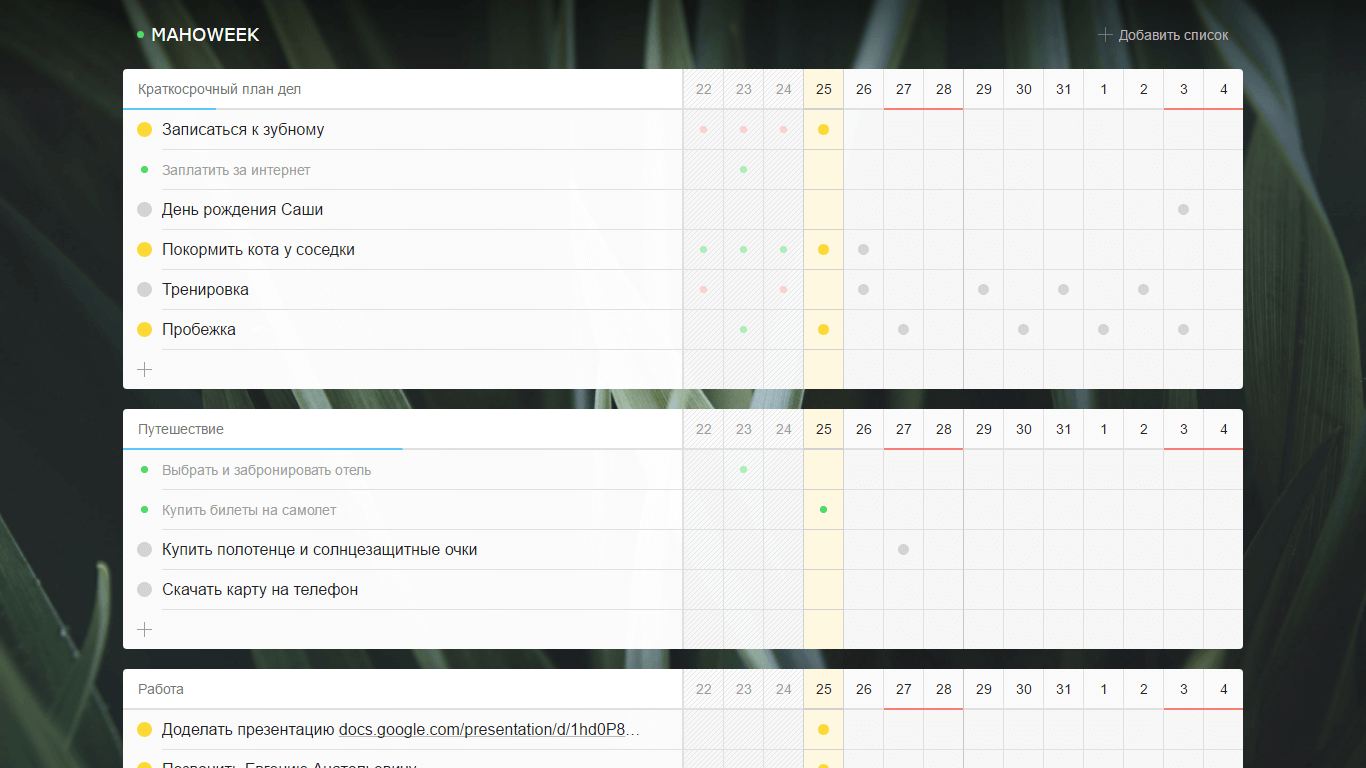
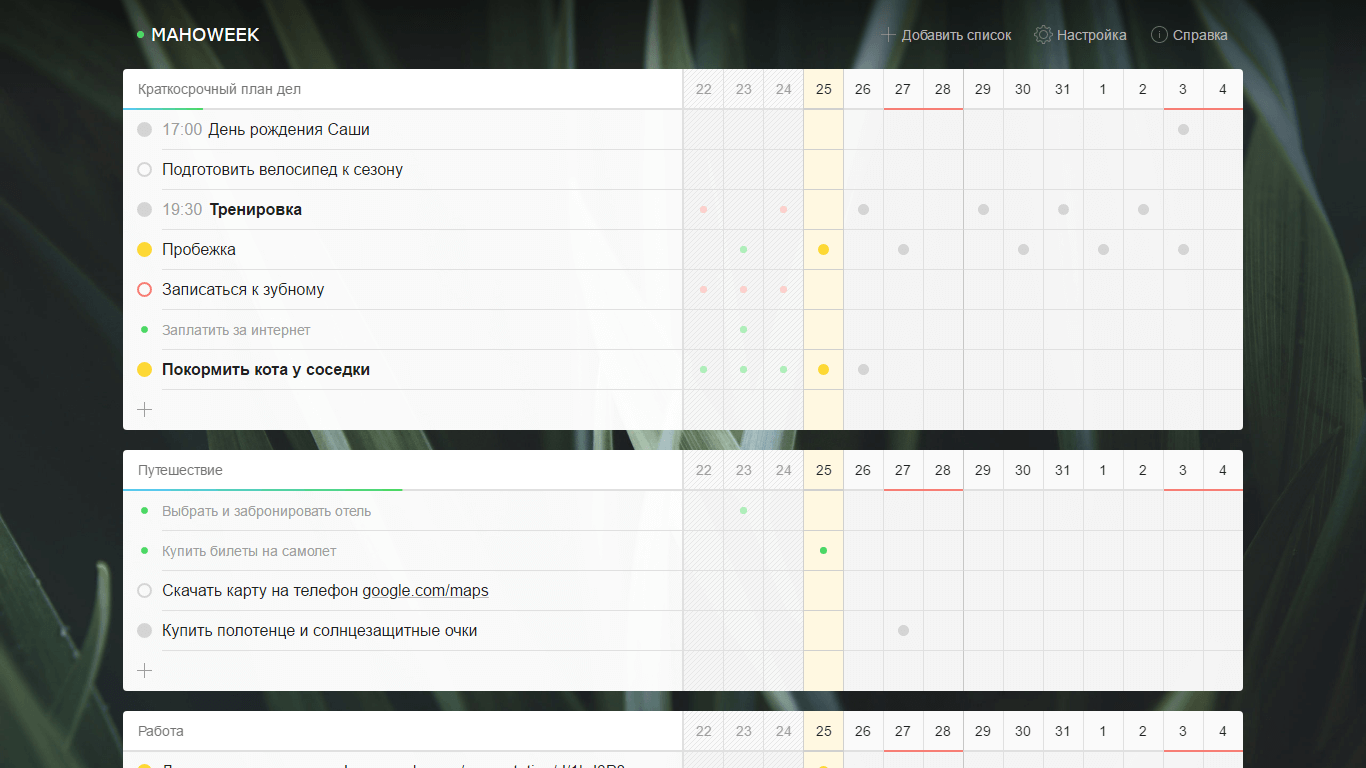
feature: добавлены новые статусы у дел: метка не задана и просрочено

diff --git a/src/index.html b/src/index.html
@@ -21,7 +21,7 @@
 		<meta property="og:url" content="https://mahoweek.ru">
 		<meta property="og:title" content="Mahoweek: краткосрочный план дел">
 		<meta property="og:description" content="Веб-сервис поможет организовать список задач и наметить на календарной сетке даты их выполнения на одну-две недели вперёд.">
-		<meta property="og:image" content="https://mahoweek.ru/img/interface.png?v=2">
+		<meta property="og:image" content="https://mahoweek.ru/img/interface.png?v=3">
 	</head>
 
 	<body>
@@ -108,7 +108,7 @@
 
 				<p class="text-center  center-block" style="max-width: 470px;">Веб-сервис по ведению краткосрочного плана дел. Поможет организовать список задач и наметить на календарной сетке даты их выполнения на одну-две недели вперёд.</p>
 
-				<div class="browser" style="background-image: url(/img/interface.png?v=2);">
+				<div class="browser" style="background-image: url(/img/interface.png?v=3);">
 					<div class="browser__header"></div>
 				</div>
 
@@ -149,7 +149,7 @@
 
 				<div class="share">
 					<script src="//yastatic.net/share2/share.js" async></script>
-					<div class="ya-share2" data-services="vkontakte,facebook,odnoklassniki,moimir,gplus,twitter,lj,viber,whatsapp,skype,telegram" data-counter="" data-title="Mahoweek: краткосрочный план дел" data-image="https://mahoweek.ru/img/interface.png?v=2" data-url="https://mahoweek.ru" data-description="Веб-сервис поможет организовать список задач и наметить на календарной сетке даты их выполнения на одну-две недели вперёд." data-title:twitter="Mahoweek поможет организовать список дел и наметить на календарной сетке даты их выполнения:"></div>
+					<div class="ya-share2" data-services="vkontakte,facebook,odnoklassniki,moimir,gplus,twitter,lj,viber,whatsapp,skype,telegram" data-counter="" data-title="Mahoweek: краткосрочный план дел" data-image="https://mahoweek.ru/img/interface.png?v=3" data-url="https://mahoweek.ru" data-description="Веб-сервис поможет организовать список задач и наметить на календарной сетке даты их выполнения на одну-две недели вперёд." data-title:twitter="Mahoweek поможет организовать список дел и наметить на календарной сетке даты их выполнения:"></div>
 				</div>
 			</div>
 		</div>

diff --git a/src/blocks/grid/grid.js b/src/blocks/grid/grid.js
@@ -65,12 +65,32 @@
 			}
 		}
 
-		// В итоге, если у дела есть метка на сегодняшний день и она не выполнена
+		// В итоге, если дела есть невыполненные метки за прошедшие дни
+		// и если дело не было выполненным сегодня,
+		// а так же если последняя метка точно о пропуске
+		if (isThis.parents('.task').find('.grid__date.grid__date--past.grid__date--bull:not(.grid__date--completed)').length && !isThis.parents('.task').find('.grid__date.grid__date--today.grid__date--completed').length && isThis.parents('.task').find('.grid__date.grid__date--past.grid__date--bull:not(.grid__date--completed):last').index() > isThis.parents('.task').find('.grid__date.grid__date--past.grid__date--completed:last').index()) {
+			// Помечаем дело как невыполненное
+			isThis.parents('.task').addClass('task--past');
+		} else {
+			// Размечаем дело как невыполненное
+			isThis.parents('.task').removeClass('task--past');
+		}
+
+		// В итоге, если у дела есть метка на любой будущий день
+		if (isThis.parents('.task').find('.grid__date:not(.grid__date--past):not(.grid__date--completed).grid__date--bull').length) {
+			// Помечаем дело как намеченное
+			isThis.parents('.task').addClass('task--bull');
+		} else {
+			// Размечаем дело как намеченное
+			isThis.parents('.task').removeClass('task--bull');
+		}
+
+		// А так же, если у дела есть метка на сегодняшний день и она не выполнена
 		if (isThis.parents('.task').find('.grid__date--today.grid__date--bull:not(.grid__date--completed)').length) {
 			// Помечаем дело как сегодняшнее
 			isThis.parents('.task').addClass('task--today');
 		} else {
-			// Помечаем сегодняшнее дело выполненным
+			// Размечаем дело как сегодняшнее
 			isThis.parents('.task').removeClass('task--today');
 		}
 

diff --git a/src/blocks/task/task.js b/src/blocks/task/task.js
@@ -17,6 +17,20 @@
 		// Находим это дело
 		var task = LIST_BOARD.find('.task[data-id="' + mahoweekStorage.tasks[i].id + '"]');
 
+		// Если у этого дела есть невыполненные метки за прошедшие дни
+		// и если дело не было выполненным сегодня,
+		// а так же если последняя метка точно метка о пропуске
+		if (task.find('.grid__date.grid__date--past.grid__date--bull:not(.grid__date--completed)').length && !task.find('.grid__date.grid__date--today.grid__date--completed').length && task.find('.grid__date.grid__date--past.grid__date--bull:not(.grid__date--completed):last').index() > task.find('.grid__date.grid__date--past.grid__date--completed:last').index()) {
+			// Помечаем дело как невыполненное
+			task.addClass('task--past');
+		}
+
+		// Если у этого дела есть метка на любой будущий день
+		if (task.find('.grid__date:not(.grid__date--past):not(.grid__date--completed).grid__date--bull').length) {
+			// Помечаем дело как намеченное
+			task.addClass('task--bull');
+		}
+
 		// Если у этого дела есть метка на сегодняшний день и она не выполнена
 		if (task.find('.grid__date--today.grid__date--bull:not(.grid__date--completed)').length) {
 			// Помечаем дело как сегодняшнее

diff --git a/src/blocks/task/task.less b/src/blocks/task/task.less
@@ -103,31 +103,54 @@
 		top: 13px;
 		left: 14px;
 		border-radius: 50%;
+		border: 2px solid;
 	}
 
 	&::before {
-		background-color: @task-pea;
+		border-color: @task-pea;
+
+		.task--past & {
+			border-color: @task-pea-past;
+		}
+
+		.task--bull & {
+			background-color: @task-pea;
+			border-color: @task-pea;
+		}
 
 		.task--today & {
 			background-color: @task-pea-today;
+			border-color: @task-pea-today;
 		}
 
 		.task--completed & {
 			background-color: @task-pea-complete;
+			border-color: @task-pea-complete;
 			transform: scale3d(0.4666, 0.4666, 1);
 		}
 	}
 
 	body:not(.mobile) &:hover::before {
+		border-color: @task-pea-hover;
+	}
+
+	body:not(.mobile) .task--past &:hover::before {
+		border-color: @task-pea-past-hover;
+	}
+
+	body:not(.mobile) .task--bull &:hover::before {
 		background-color: @task-pea-hover;
+		border-color: @task-pea-hover;
 	}
 
 	body:not(.mobile) .task--today &:hover::before {
 		background-color: @task-pea-today-hover;
+		border-color: @task-pea-today-hover;
 	}
 
 	body:not(.mobile) .task--completed &:hover::before {
 		background-color: @task-pea-complete-hover;
+		border-color: @task-pea-complete-hover;
 	}
 }
 

diff --git a/src/less/variables.less b/src/less/variables.less
@@ -95,6 +95,8 @@
 
 @task-pea: darken(@list-border, 5%);
 @task-pea-hover: darken(@task-pea, 10%);
+@task-pea-past: @list-trash;
+@task-pea-past-hover: @list-trash-hover;
 @task-pea-today: @color-yellow;
 @task-pea-today-hover: darken(@grid-pea-today, 13%);
 @task-pea-complete: @logo-pea;
@@ -119,7 +121,7 @@
 @grid-past-bg: darken(@grid-border, 5%);
 @grid-today-bg: #FFF8E1;
 @grid-today-border: darken(@grid-border, 7%);
-@grid-holiday-border: lighten(@color-red, 13%);
+@grid-holiday-border: @list-trash;
 
 @grid-pea: @task-pea;
 @grid-pea-hover: @task-pea-hover;

diff --git a/readme.md b/readme.md
@@ -1,4 +1,4 @@
-![Интерфейс](https://mahoweek.ru/img/interface.png?v=2)
+![Интерфейс](https://mahoweek.ru/img/interface.png?v=3)
 
 # Mahoweek
 
